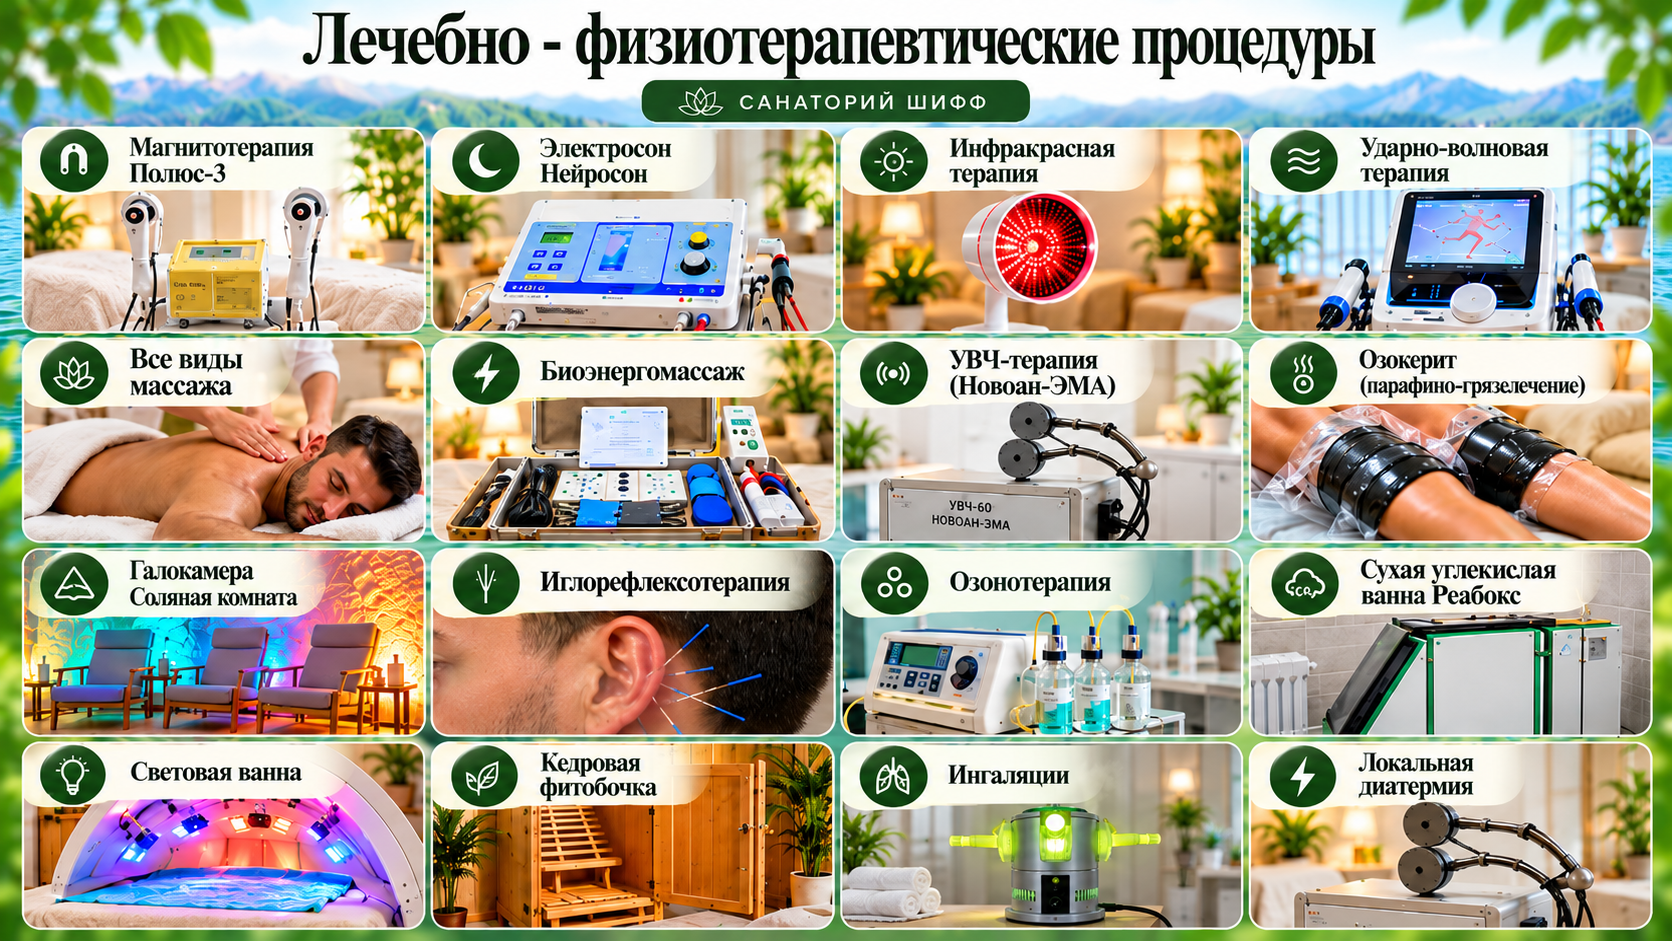
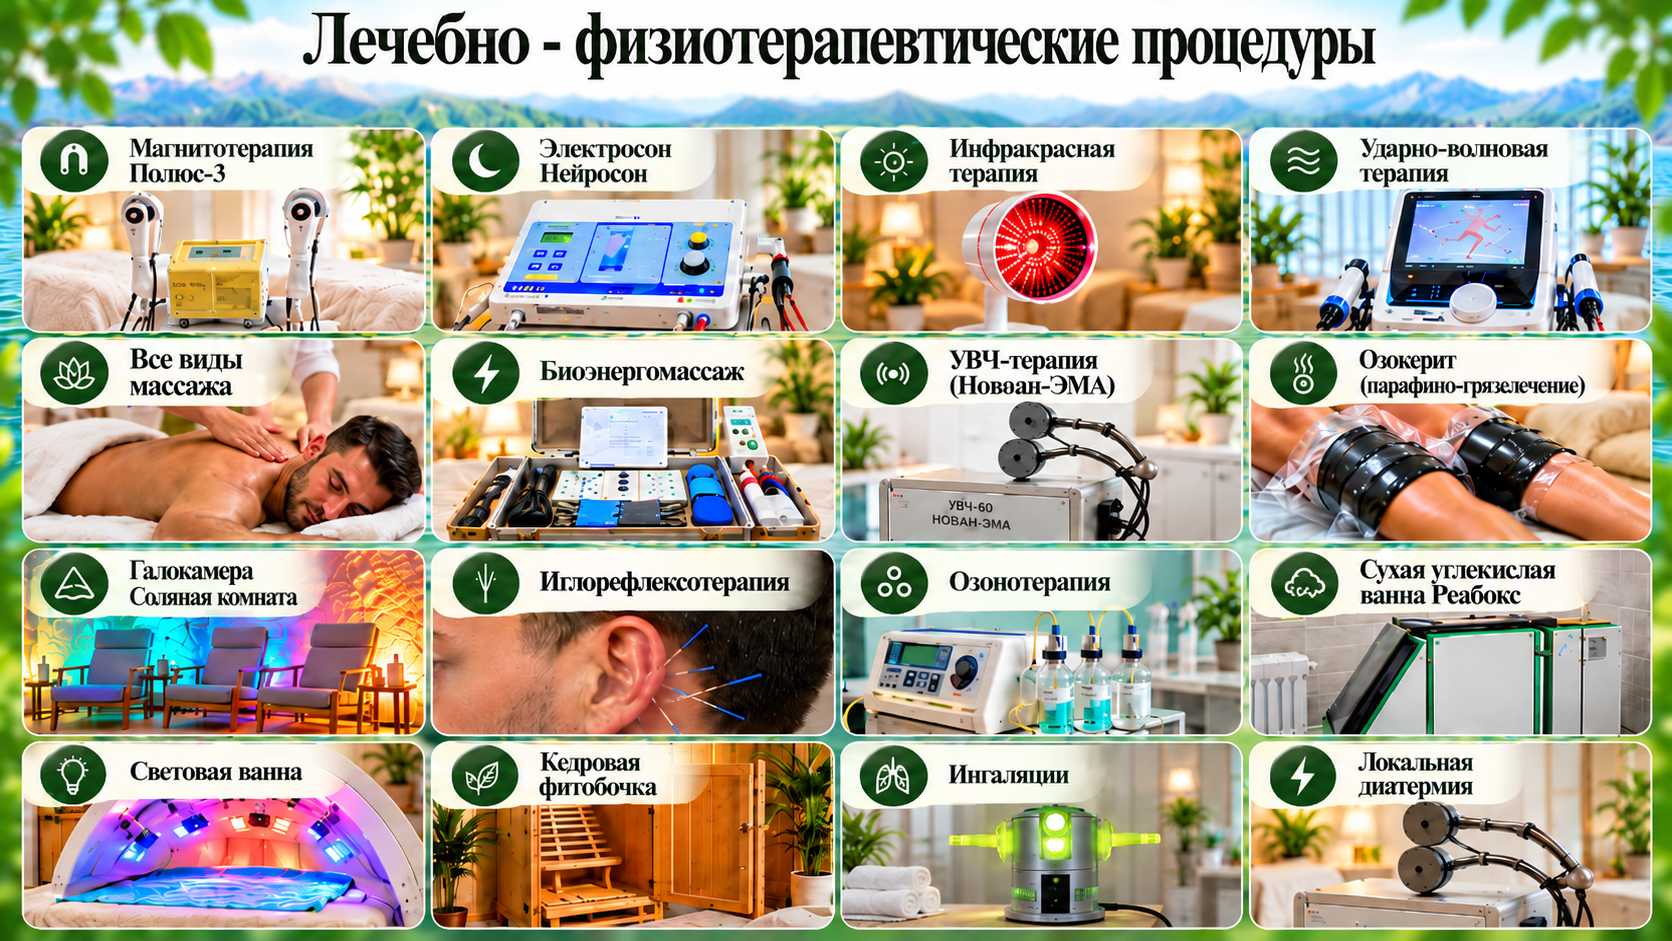
design: fit updated procedure infographic below fixed header

diff --git a/index.html b/index.html
@@ -31,7 +31,7 @@
 <link href="assets/css/main.css?v=carousel-20260922" rel="stylesheet"/>
 <link href="assets/css/preview.css?v=territory-nature-1" rel="stylesheet"/>
 <link href="assets/css/banner.css?v=banner-2" rel="stylesheet"/>
-<link href="assets/css/navigation.css?v=procedures-fullwidth-2" rel="stylesheet"/></head>
+<link href="assets/css/navigation.css?v=procedures-fit-3" rel="stylesheet"/></head>
 <body class="bg-shifo-pattern is-home">
 <header class="site-header">
 <div class="container header-inner">
@@ -160,7 +160,7 @@
 <div class="territory-map">
 <a href="img/maps/shifo-territory-guide.png" rel="noopener" target="_blank"><img alt="План территории Шифо на берегу Кайраккумского водохранилища" decoding="async" height="1038" src="img/maps/shifo-territory-guide.png" width="1516"/></a>
 </div>
-</section><section aria-label="Лечебно-оздоровительные процедуры" class="procedure-overview" id="procedures"><a class="procedure-collage" href="img/procedures/shifo-physiotherapy.png" rel="noopener" target="_blank"><img alt="Коллаж лечебно-оздоровительных процедур" decoding="async" height="941" loading="lazy" src="img/procedures/shifo-physiotherapy.png" width="1672"/></a></section><section aria-label="Социальные сети" class="social-overview"><div class="container social-links"><a class="social-instagram" href="https://www.instagram.com/osoishgohi_shifo/" rel="noopener" target="_blank"><strong>Instagram</strong><span>@osoishgohi_shifo ↗</span></a><a class="social-dzen" href="https://dzen.ru/a/aNfXskfPRUITOvK5" rel="noopener" target="_blank"><strong>Дзен</strong><span>Открыть статью ↗</span></a></div></section></main>
+</section><section aria-label="Лечебно-оздоровительные процедуры" class="procedure-overview" id="procedures"><a class="procedure-collage" href="img/procedures/shifo-physiotherapy.png?v=3" rel="noopener" target="_blank"><img alt="Коллаж лечебно-оздоровительных процедур" decoding="async" height="941" loading="lazy" src="img/procedures/shifo-physiotherapy.png?v=3" width="1672"/></a></section><section aria-label="Социальные сети" class="social-overview"><div class="container social-links"><a class="social-instagram" href="https://www.instagram.com/osoishgohi_shifo/" rel="noopener" target="_blank"><strong>Instagram</strong><span>@osoishgohi_shifo ↗</span></a><a class="social-dzen" href="https://dzen.ru/a/aNfXskfPRUITOvK5" rel="noopener" target="_blank"><strong>Дзен</strong><span>Открыть статью ↗</span></a></div></section></main>
 <footer class="site-footer">
 <div class="container footer-grid">
 <div>

diff --git a/assets/css/navigation.css b/assets/css/navigation.css
@@ -11,10 +11,13 @@
 .page-intro { padding-block: 32px 12px; }
 .page-intro > a { color: #386b75; font-size: 14px; }
 .page-intro h1 { margin: 18px 0 0; color: #103c42; font: 400 clamp(30px, 3vw, 48px)/1.2 'Shifo Manrope', Arial, sans-serif; }
-.procedure-overview { padding: 0; background: #f8f7f2; }
+.procedure-overview { padding: 0; background: radial-gradient(ellipse at 15% 0, #c7dcc0, transparent 48%), radial-gradient(ellipse at 85% 100%, #628c49, transparent 55%), linear-gradient(180deg, #e5eee0, #164e35); scroll-margin-top: -18px; }
 .procedure-overview a { color: #103c42; }
-.procedure-overview .procedure-collage { display: block; width: 100%; line-height: 0; }
-.procedure-collage img { display: block; width: 100%; height: auto; }
+.procedure-overview .procedure-collage { display: flex; justify-content: center; width: 100%; line-height: 0; }
+.procedure-collage img { display: block; width: auto; height: auto; max-width: 100%; max-height: calc(100svh - var(--actual-header-height, 75px)); object-fit: contain; }
+@media (max-width: 700px) {
+  .procedure-collage img { max-height: calc(100svh - var(--actual-header-height, 75px) - 72px); }
+}
 .social-overview { padding-block: 0 48px; background: #f8f7f2; }
 .social-links { display: grid; grid-template-columns: repeat(2, minmax(0, 1fr)); gap: 20px; }
 .social-links > a { display: flex; align-items: center; justify-content: space-between; flex-wrap: wrap; gap: 12px; padding: 24px 28px; min-height: 92px; color: #fff; }

diff --git a/health.html b/health.html
@@ -30,7 +30,7 @@
 <link href="/sitemap.xml" rel="sitemap" type="application/xml"/>
 <link href="assets/css/main.css?v=carousel-20260922" rel="stylesheet"/>
 <link href="assets/css/preview.css?v=territory-nature-1" rel="stylesheet"/>
-<link href="assets/css/navigation.css?v=procedures-fullwidth-2" rel="stylesheet"/></head>
+<link href="assets/css/navigation.css?v=procedures-fit-3" rel="stylesheet"/></head>
 <body class="bg-shifo-pattern is-inner-page" data-page-title="Оздоровление">
 <header class="site-header is-past-hero">
 <div class="container header-inner">

diff --git a/rooms.html b/rooms.html
@@ -30,7 +30,7 @@
 <link href="/sitemap.xml" rel="sitemap" type="application/xml"/>
 <link href="assets/css/main.css?v=carousel-20260922" rel="stylesheet"/>
 <link href="assets/css/preview.css?v=territory-nature-1" rel="stylesheet"/>
-<link href="assets/css/navigation.css?v=procedures-fullwidth-2" rel="stylesheet"/></head>
+<link href="assets/css/navigation.css?v=procedures-fit-3" rel="stylesheet"/></head>
 <body class="bg-shifo-pattern is-inner-page" data-page-title="Номера и цены">
 <header class="site-header is-past-hero">
 <div class="container header-inner">

diff --git a/about.html b/about.html
@@ -30,7 +30,7 @@
 <link href="/sitemap.xml" rel="sitemap" type="application/xml"/>
 <link href="assets/css/main.css?v=carousel-20260922" rel="stylesheet"/>
 <link href="assets/css/preview.css?v=territory-nature-1" rel="stylesheet"/>
-<link href="assets/css/navigation.css?v=procedures-fullwidth-2" rel="stylesheet"/></head>
+<link href="assets/css/navigation.css?v=procedures-fit-3" rel="stylesheet"/></head>
 <body class="bg-shifo-pattern is-inner-page" data-page-title="О санатории">
 <header class="site-header is-past-hero">
 <div class="container header-inner">

diff --git a/contacts.html b/contacts.html
@@ -30,7 +30,7 @@
 <link href="/sitemap.xml" rel="sitemap" type="application/xml"/>
 <link href="assets/css/main.css?v=carousel-20260922" rel="stylesheet"/>
 <link href="assets/css/preview.css?v=territory-nature-1" rel="stylesheet"/>
-<link href="assets/css/navigation.css?v=procedures-fullwidth-2" rel="stylesheet"/></head>
+<link href="assets/css/navigation.css?v=procedures-fit-3" rel="stylesheet"/></head>
 <body class="bg-shifo-pattern is-inner-page" data-page-title="Контакты">
 <header class="site-header is-past-hero">
 <div class="container header-inner">

diff --git a/README.md b/README.md
@@ -108,3 +108,5 @@ original proportions and opens at full size when selected, including on phones.
 The homepage procedure infographic spans the full page width at its original aspect ratio. Its embedded heading is the only visible heading for this block; the source PNG is unchanged.
 
 Territory section: emerald landscape panel with cream/gold statistics, 34/66 desktop columns, information first on mobile. The annotated map PNG is unchanged and opens at full size by clicking/tapping it. The separate plan button is removed. Background is a lightweight WebP export of the existing banner landscape.
+
+The updated procedure PNG fits within the viewport below the fixed header, preserving its full aspect ratio and original file bytes. Natural green CSS gradients fill any side space; tapping the infographic opens the original.
